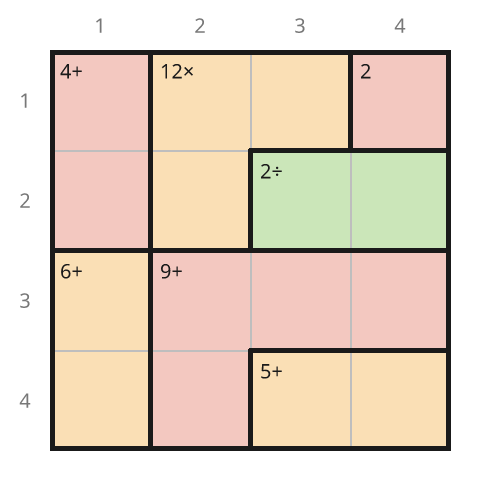
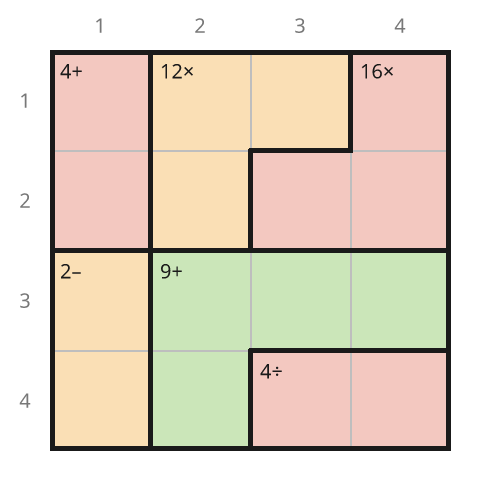
Document and illustrate singleton-free Calcudoku authoring
Refresh every gallery diagram, describe editable legacy clues and exact-grade authoring, and feed the leftover-cage and hidden-given lessons into the reusable skill.

Changed region(s): [[0.3, 0.27, 0.9, 0.9], [0.72, 0.12, 0.78, 0.18], [0.12, 0.51, 0.18, 0.57]]

diff --git a/.github/skills/non-murdoku-puzzle-authoring/SKILL.md b/.github/skills/non-murdoku-puzzle-authoring/SKILL.md
@@ -64,6 +64,9 @@ family except Murdoku; Murdoku keeps its own skill and tools.
    Only unique, deductively solved, nontrivial candidates qualify. Preserve the
    reported family, grade, tier, and uniqueness status; never promote an
    unrated or invalid candidate by hand.
+   When preserving technique coverage, pass optional `--grade` to `fresh`
+   or `generate` as well as `--tier`, for example `--tier hard --grade cover3`.
+   A tier alone cannot distinguish the different hard deduction rules.
 5. Search the gallery to find coverage gaps and verify a new file is indexed
    under the intended display family:
 
@@ -101,6 +104,24 @@ family except Murdoku; Murdoku keeps its own skill and tools.
    brute-force-only solving.
 
 ## Difficulty and validation
+
+Calcudoku cages must contain at least two cells in published examples and
+fresh or seed-based authoring. Excluding size one from the requested cage
+sizes is insufficient: growth can still strand a single cell. Merge each
+singleton into a touching cage and rederive that cage's target and operation
+from the solution; keep unaffected clues valid. Never generate easier
+variants by splitting cages into one-cell hints. The shared builder handles
+both fresh layouts and seed variations, with deterministic seeds and
+connectivity/solution checks.
+
+Keep valid legacy singleton syntax readable. Compiler-fixed values are not
+necessarily authored givens: Calcudoku targets are arithmetic clues, and the
+web player should let the user enter their digits. Test that every playable
+cell is editable or visibly prefilled, and that Check requires editable clue
+cells before reporting solved. Keep this policy in the exporter, not as
+family-specific UI code. Rework affected examples without losing measured
+technique coverage, audit uniqueness/order, and refresh puzzle and solution
+images as well as web/booklet exports.
 
 Queens regions must contain at least two cells in published examples and
 freshly authored boards. Single-cell regions give away a placement, regardless

diff --git a/docs/model-and-puzzle-formats.md b/docs/model-and-puzzle-formats.md
@@ -269,6 +269,10 @@ In the Murdoku picture, blocked squares are shaded clearly darker than their reg
   Single-cell cages remain valid input, but their targets are clues, not hidden
   prefilled digits: the web player lets the user enter their values normally.
   Every cell must be filled for Check to report a solved puzzle.
+  Published examples and Puzzle Lab generation use cages of at least two
+  cells. Fresh generation merges stranded single cells into touching cages
+  and derives new arithmetic targets from the solution. Seed variations do
+  the same and may change operations, never add one-cell hint cages.
 - **Futoshiki:** `Grid:` givens/dots plus `Signs:` lines such as `r1c4 < r2c4`; signs join orthogonally adjacent cells.
 - **Sudoku:** see the earlier section. Plain format is a grid; variants use sectioned `Givens:`, `Boxes:`, and `Extra:`.
 
@@ -296,6 +300,9 @@ puzzle only when the deductive solver completes it and independent search
 confirms a unique solution; `search` applies the same checks across files.
 `generate` searches reproducible family-aware variants and refuses to write a
 candidate that misses the requested tier; it keeps the seed's solution.
+Both `generate` and `fresh` accept optional `--grade` for exact technique
+coverage as well as a tier, for example `--tier hard --grade cover3`.
+If no candidate matches both requirements, they fail without writing a file.
 `fresh` builds a brand-new board and solution for Binairo, Tango, Queens,
 Suguru, Minesweeper, Akari, Sudoku, Futoshiki, Calcudoku, Star Battle
 and Tents, then removes givens while the solution stays unique. Battleships

diff --git a/RELEASE_NOTES.md b/RELEASE_NOTES.md
@@ -12,6 +12,9 @@
 * The puzzles in `examples/` are all rights reserved (`examples/LICENSE.md`): no copying without the author's written permission. The rest of the repo stays Apache 2.0. Every `--docx` booklet carries this notice in its footer.
 **Bug Fix(es)**
 * [#135 Calcudoku cage entry](https://github.com/operdeck/human-reasoning-puzzles/issues/135): single-cell cage targets remain editable clues in the web player, not invisible locked givens. Players must enter every digit, including these clue cells, for the puzzle to count as solved. Legacy files remain supported.
+    * Fresh and seed-based Calcudoku generation no longer create single-cell cages. Stranded cells merge into adjacent cages, with targets recalculated from the solution. Seed variations change arithmetic clues rather than introducing singleton hints.
+    * Reworked all affected examples and regenerated all six puzzle/solution diagram pairs. Every published cage has at least two connected cells; the existing `relations`, `cover2`, `cover3` and fiendish `what_if` coverage is retained.
+    * Puzzle Lab `fresh` and `generate` accept optional `--grade` to require an exact measured technique as well as a tier; mismatches never write an output. Gallery and deterministic generator regressions enforce cage quality.
 * Web UI: Clear resets the board immediately and remains undoable; area labels are larger on mobile.
 * `--png` on a Murdoku puzzle with roles (e.g. `murdoku_composition.txt`) no longer crashes with `AttributeError: 'bool' object has no attribute 'col'`.
 * Name-vs-appearance consistency

diff --git a/docs/examples.md b/docs/examples.md
@@ -91,6 +91,15 @@ that silently give away a placement.
 
 ## Rule-focused examples
 
+The six Calcudoku examples contain no single-cell cages. All cages are
+connected and have at least two cells; each board has one independently
+verified solution. The sequence retains two easy 4 × 4s (`relations`),
+a medium 6 × 6 (`relations`), a medium 6 × 6 (`cover2`), a hard 7 × 7
+(`cover3`) and a fiendish 6 × 6 (`what_if`). The last fallback remains
+reserved for that explicitly fiendish example. Legacy files with one-cell
+cages remain playable: their target digits must be entered, not silently
+locked as invisible givens.
+
 The standard Sudoku set exercises `single`, `subsumption`, `cover2`, `cover3`, and `chains`. The Queens collection progresses from `single` through `subsumption` and `cover2` to `chains`; the Star Battle examples have irregular regions and grade `cover2` (8 × 8, two stars), `chains` (10 × 10, two stars) and `cover3` (12 × 12, three stars), and a two-star board cannot be smaller than 8 × 8, nor a three-star board smaller than 12 × 12; the logic grids and weighted Kakurasu examples exercise `relations`; the count-oriented examples exercise `count`. Run `--grade` for the exact grade of any individual example.
 
 | Family | Small example | Larger example |

diff --git a/README.md b/README.md
@@ -32,6 +32,11 @@ Use `puzzle-lab fresh`, `generate`, `rate`, `search`, and `audit` to create and 
 examples; see the [authoring workflow](.github/skills/non-murdoku-puzzle-authoring/SKILL.md).
 Murdoku retains its separate tools and skill.
 
+Calcudoku examples and Puzzle Lab generation avoid single-cell cages. Older
+files still work: a single-cell target is a clue whose digit you enter normally.
+Use optional `--grade` with `fresh` or `generate` when preserving a specific
+deduction technique, such as `--tier hard --grade cover3`.
+
 The [Battleships examples](docs/examples.md#battleships) now use complete fleets:
 straight ships, no touching (including diagonals), line totals, and shaped
 givens. The small 6x6 board is rated medium (`count`); the larger 8x8 board is
